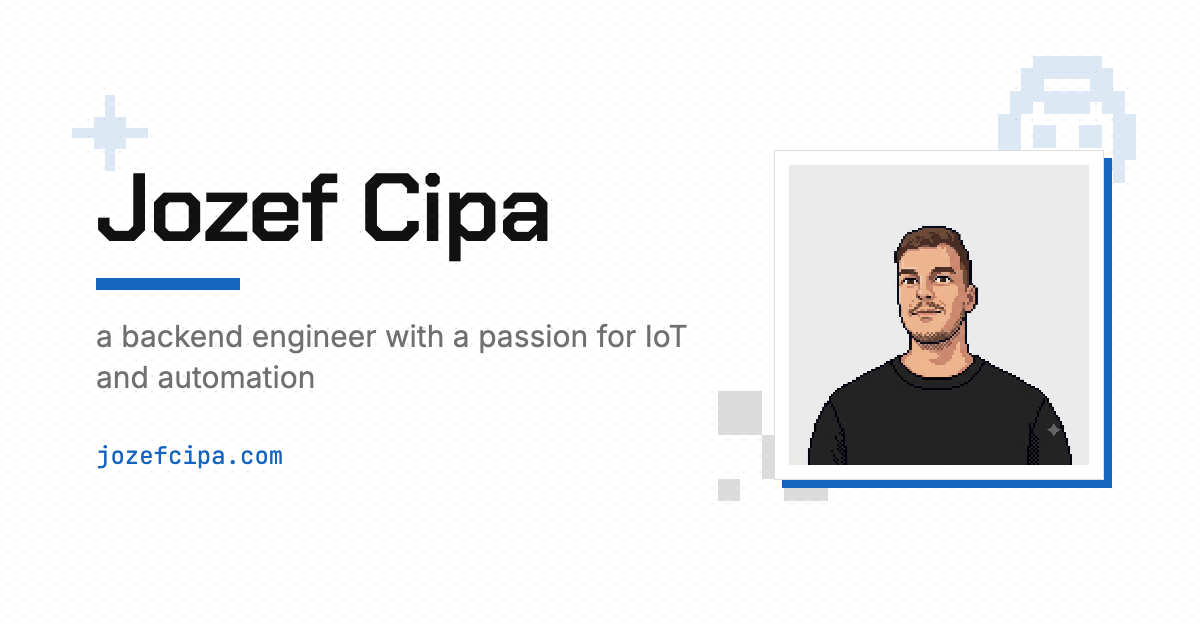
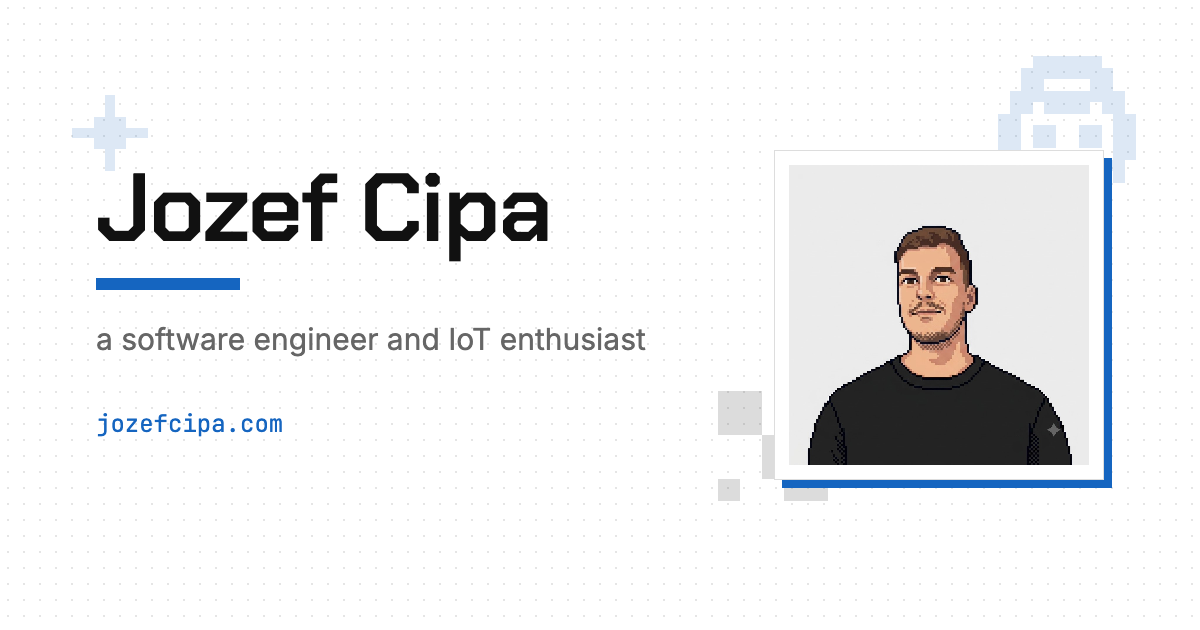
feat: refresh bio and tagline
Software engineer instead of backend engineer, new homepage blurb.

Changed region(s): [[0.0617, 0.5127, 0.5858, 0.6333], [0.0617, 0.6635, 0.2467, 0.754]]

diff --git a/themes/pixel/layouts/partials/head.html b/themes/pixel/layouts/partials/head.html
@@ -1,6 +1,6 @@
 <meta charset="utf-8">
 <meta name="viewport" content="width=device-width, initial-scale=1">
-{{- $title := cond .IsHome (printf "%s — backend engineer with a passion for IoT and automation" .Site.Title) (printf "%s — %s" (.Title | default .Site.Title) .Site.Title) }}
+{{- $title := cond .IsHome (printf "%s — software engineer and IoT enthusiast" .Site.Title) (printf "%s — %s" (.Title | default .Site.Title) .Site.Title) }}
 <title>{{ $title }}</title>
 {{- /* hand-written description first; the pipeline's summary runs ~400
        chars, so everything is cut to what fits in a search snippet */}}
@@ -47,7 +47,7 @@
   "name" .Site.Title
   "url" site.Home.Permalink
   "image" (.Site.Params.avatar | absURL)
-  "jobTitle" "Backend engineer"
+  "jobTitle" "Software engineer"
   "sameAs" (slice "https://github.com/jozefcipa" "https://linkedin.com/in/jozefcipa")
 }}
 {{- $ld := dict }}

diff --git a/themes/pixel/layouts/index.html b/themes/pixel/layouts/index.html
@@ -42,9 +42,8 @@
       <div class="hero-bar" aria-hidden="true"></div>
       <p class="hero-tagline">{{ .Site.Params.description }}</p>
       <p class="hero-blurb">
-        I build quiet, reliable systems in Node and Go — and, after hours,
-        small hardware things that talk to them. This is where I write it
-        down.
+        I build scalable, reliable systems in Node.js. In my free time I
+        tinker with Go and IoT, and this is where I write it all down.
       </p>
       <div class="hero-links">
         <a href="{{ "blog/" | relURL }}" class="hero-link-primary link-step">read the blog →</a>

diff --git a/content/about.md b/content/about.md
@@ -3,7 +3,7 @@ title: About
 layout: about
 ---
 
-I'm Jozef, a software developer with **10+ years** of experience, focusing mostly on backend and web applications.
+I'm Jozef, a software engineer with **10+ years** of experience, focusing mostly on backend and web applications.
 
 Most of my day happens in **Node.js** and **TypeScript**, with Postgres and AWS somewhere nearby. Over the years, **Go** went from "language I'm curious about" to the thing I reach for whenever I build my own tools — like [novus](https://github.com/jozefcipa/novus), a local HTTPS proxy, or a [USB macro button](https://github.com/jozefcipa/usb-button) running TinyGo on a Raspberry Pi Pico. In the past I also worked with PHP, jQuery, and a little bit of Python — we don't talk about the XSLT era 😅.
 
